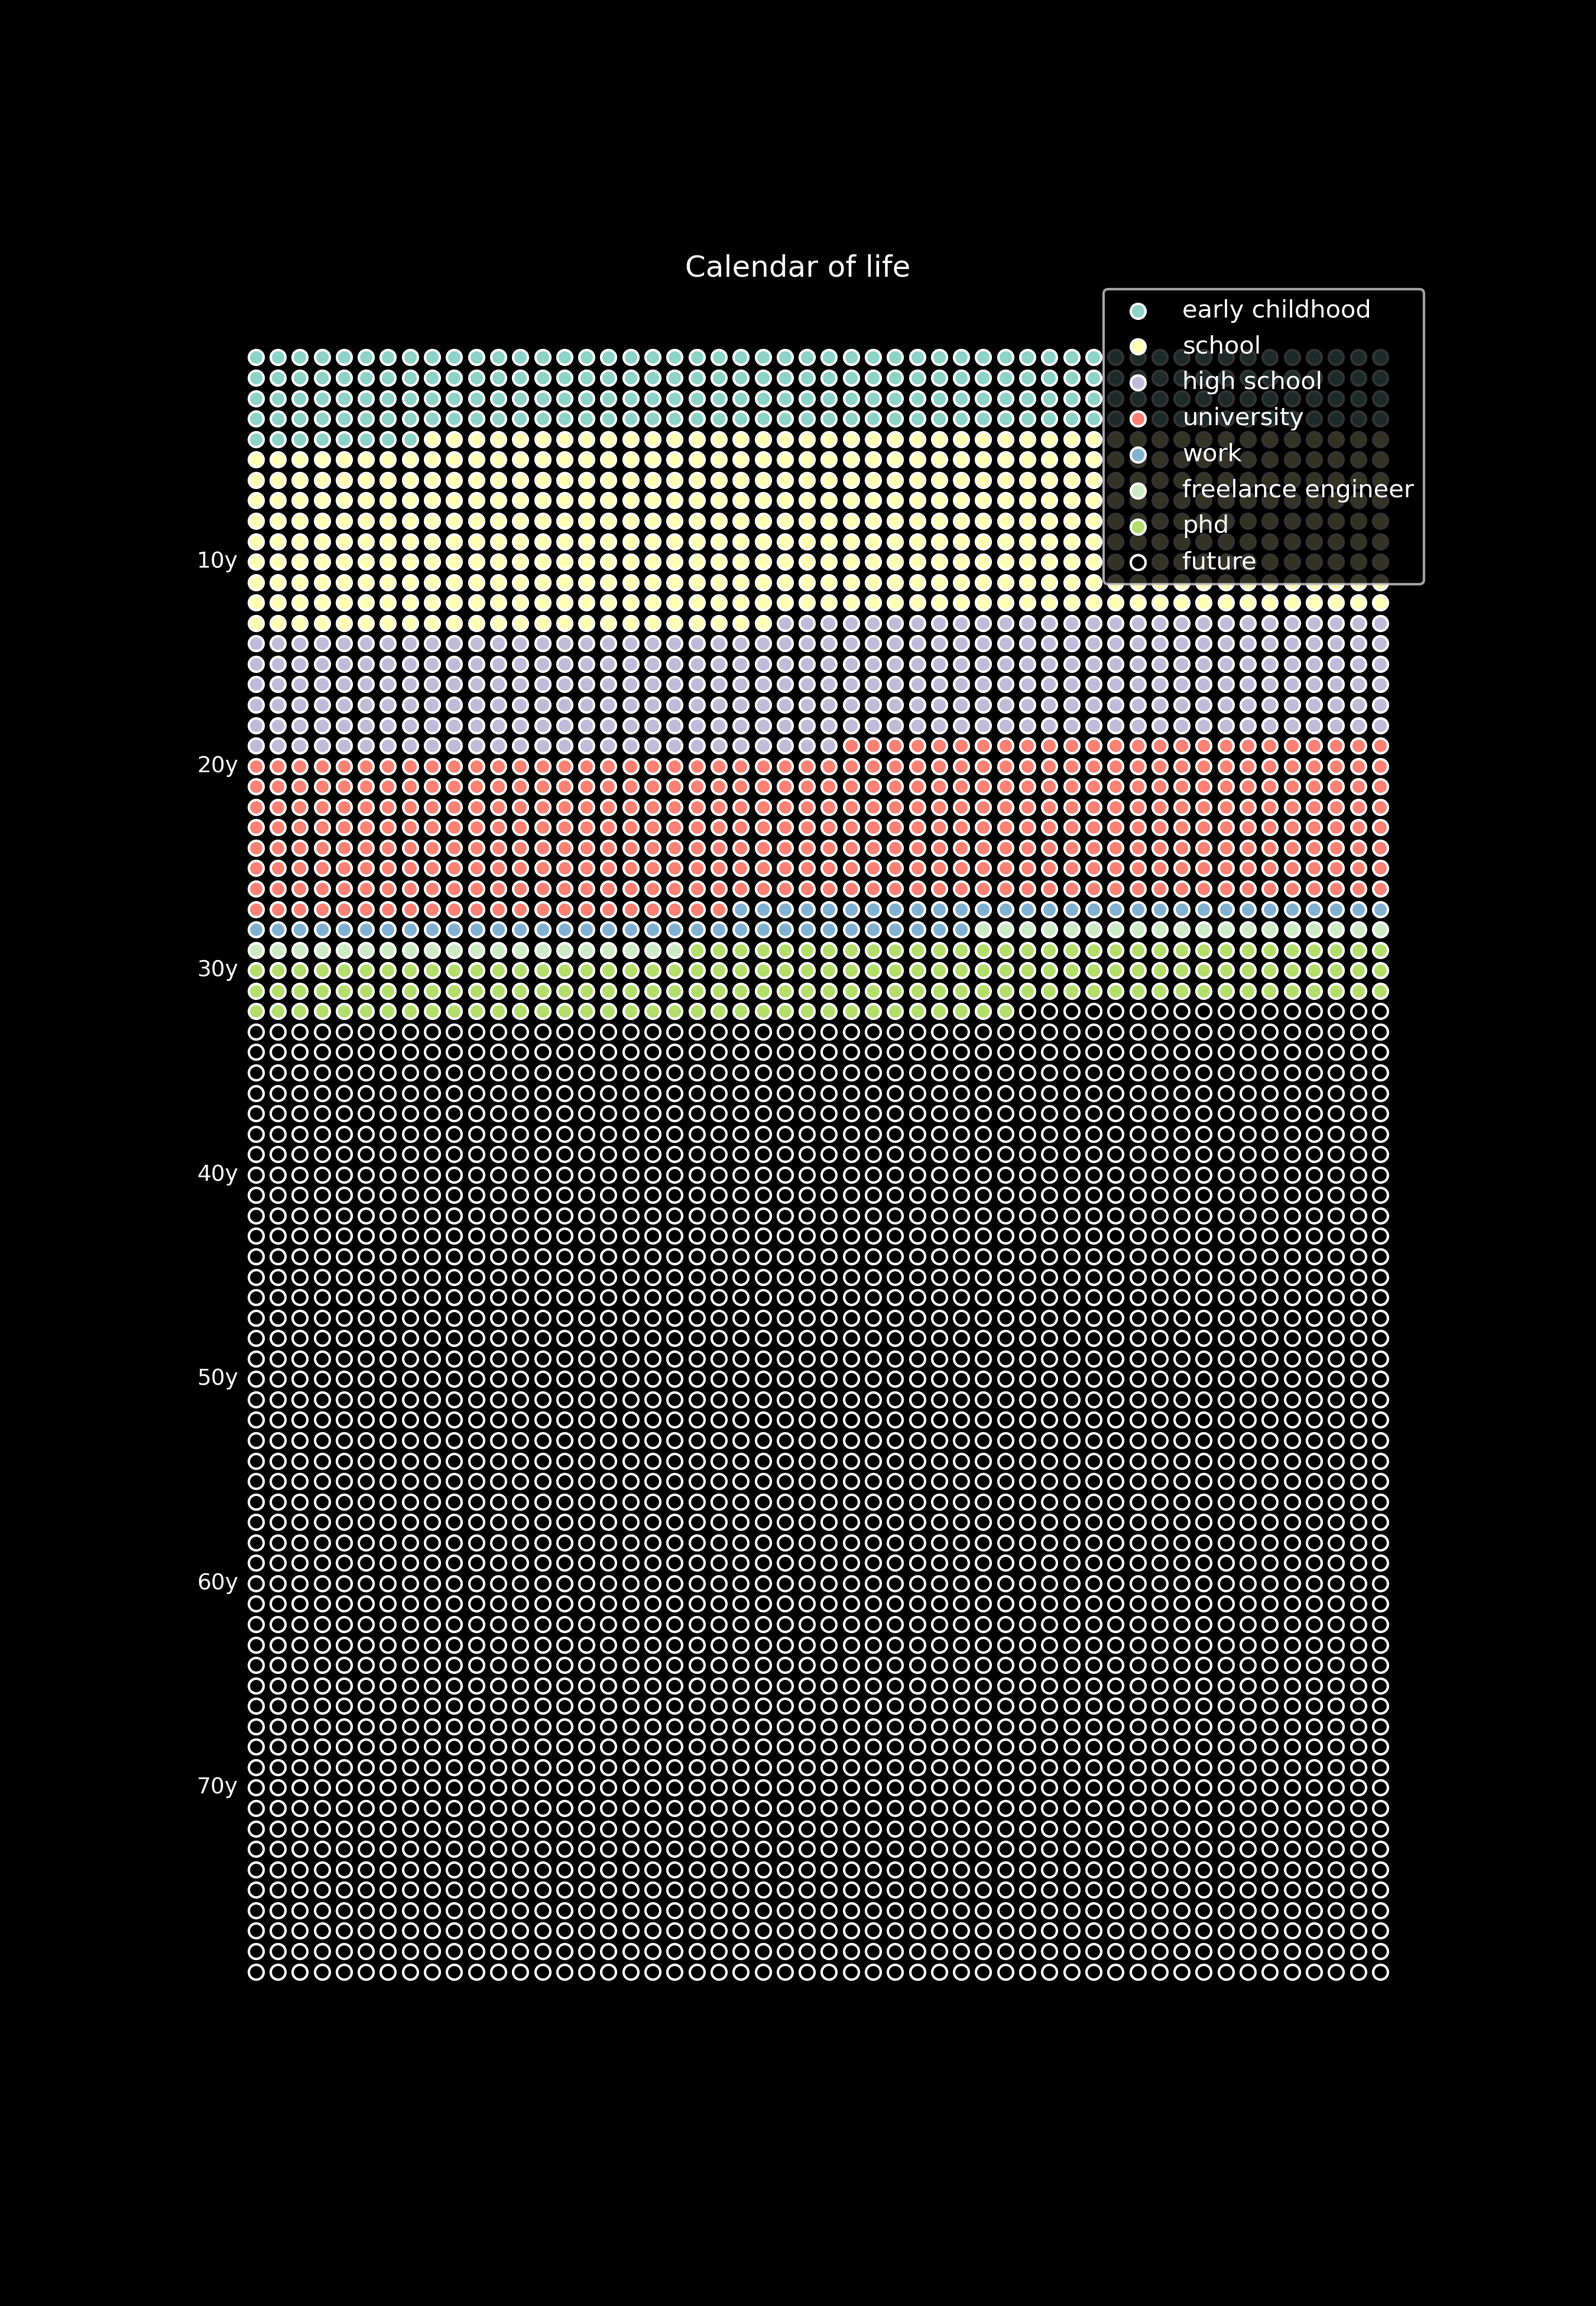
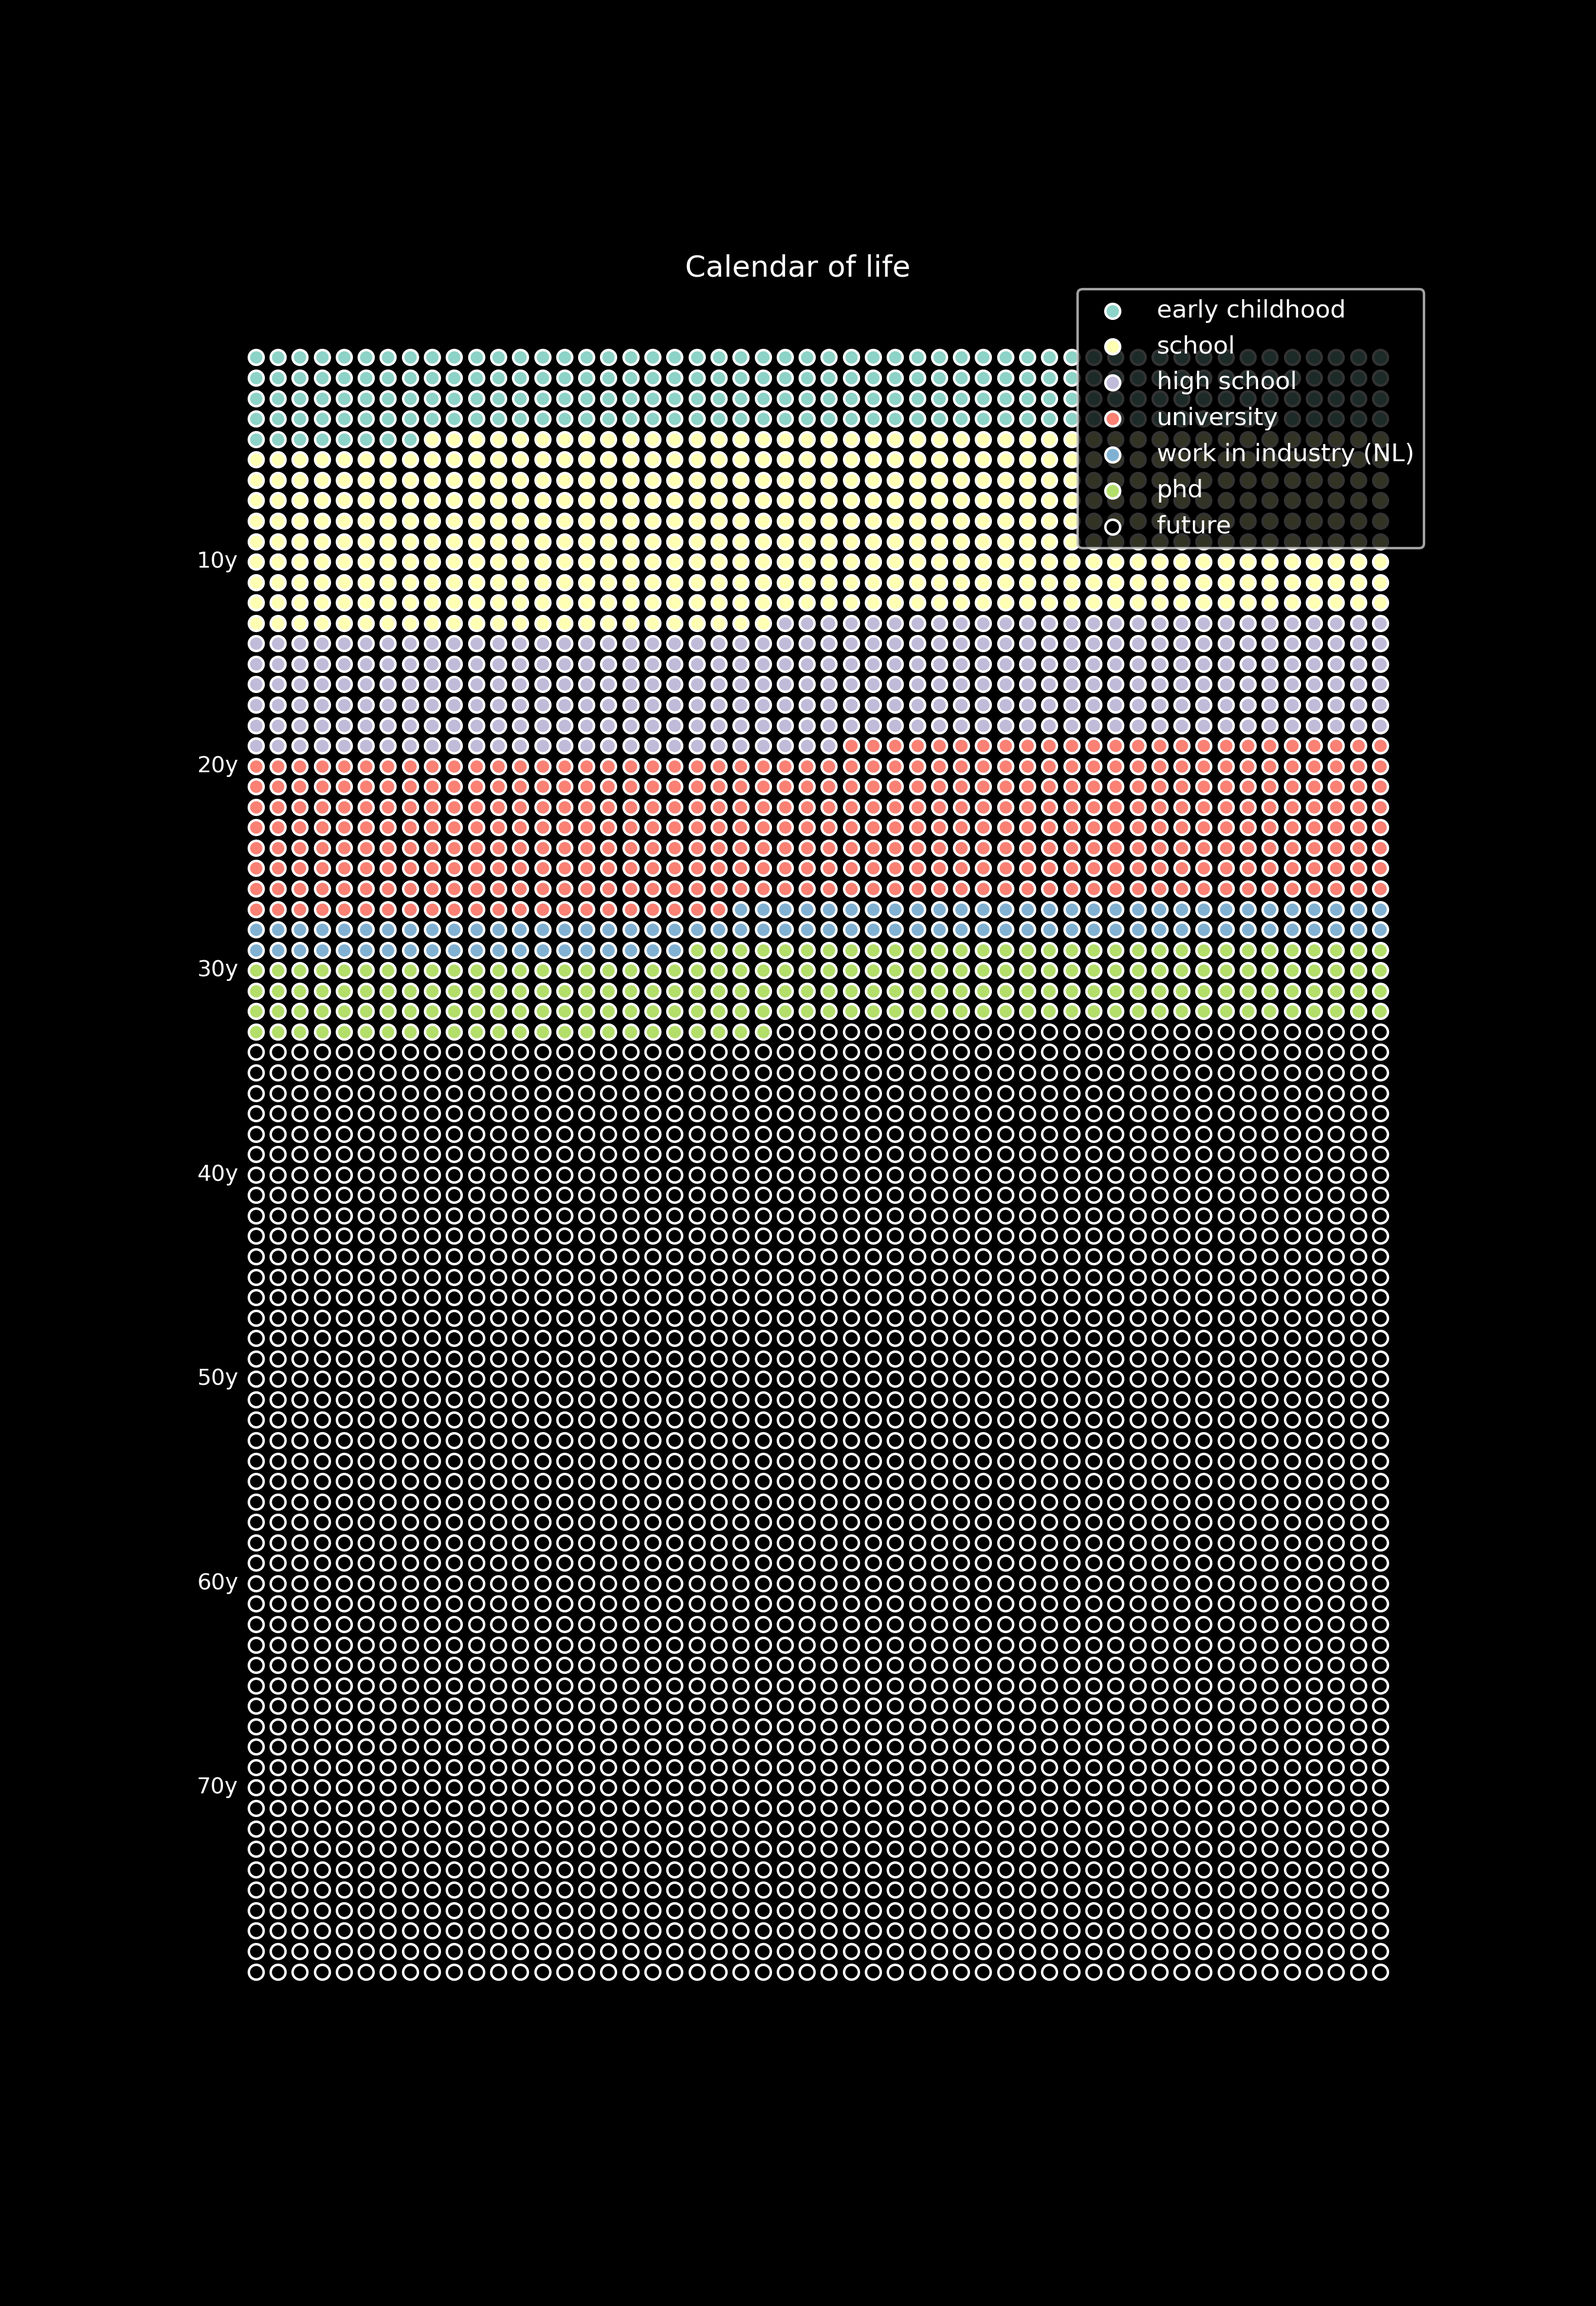
update

Changed region(s): [[0.6533, 0.1241, 0.8711, 0.2792]]

diff --git a/calendar_of_life.py b/calendar_of_life.py
@@ -29,8 +29,7 @@ for dark_mode in [True, False]:
         ("school", datetime.date(2003, 8, 18)),
         ("high school", datetime.date(2009, 9, 1)),
         ("university", datetime.date(2017, 7, 13)),
-        ("work", datetime.date(2018, 10, 1)),
-        ("freelance engineer", datetime.date(2019, 7, 1)),
+        ("work in industry (NL)", datetime.date(2019, 7, 1)),
         ("phd", today),
     ]
 
@@ -46,7 +45,7 @@ for dark_mode in [True, False]:
         "university": "C3",
         "freelance engineer": "C8",
         "phd": "C6",
-        "work": "C4",
+        "work in industry (NL)": "C4",
         "future": face,
     }
     week_num = 0
